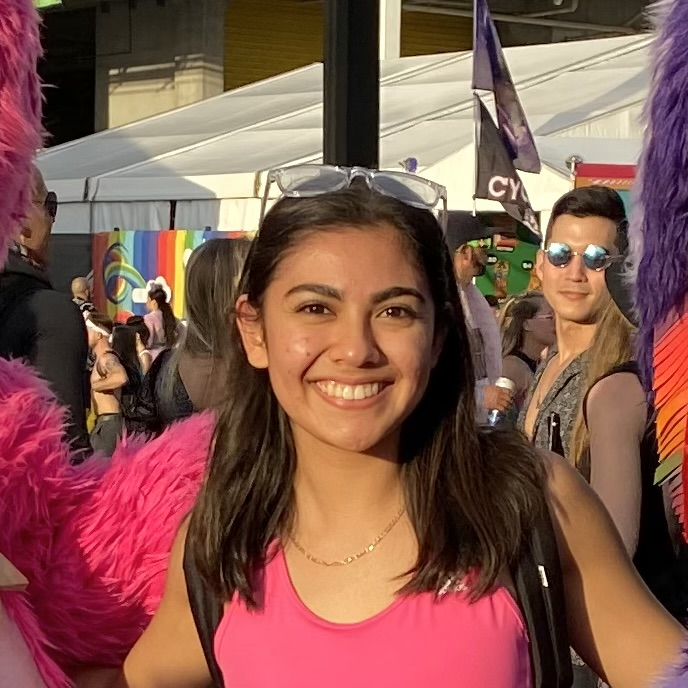
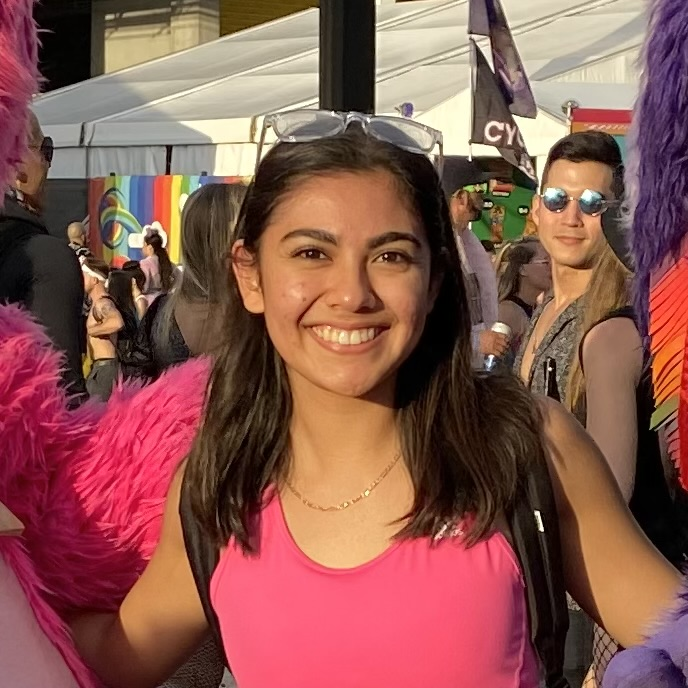
Updated Ashley pic + npm run format

diff --git a/src/components/LandingPage/About/About.tsx b/src/components/LandingPage/About/About.tsx
@@ -26,7 +26,8 @@ const About: React.FC = () => {
       <div id="about" className="md:ml-[6rem]">
         <p className="mt-10 text-xl font-medium md:text-xxl">About</p>
         <p className="mt-4">
-          FullyHacks is California State University, Fullerton's 24-hour, beginner-friendly hackathon which will be held
+          FullyHacks is California State University, Fullerton's 24-hour,
+          beginner-friendly hackathon which will be held
           <span className="font-semibold"> 100% in-person</span> from
           <span className="font-semibold"> April 8th to 9th.</span>
         </p>

diff --git a/README.md b/README.md
@@ -3,10 +3,12 @@
 ## Welcome to FullyHacks 2023 - CSUF's first 24-hour in-person hackathon
 
 ## Tech Stacks:
+
 1. Next.js (Full-stack framework)
 2. TailwindCSS, DaisyUI (Styling)
 3. Prisma (ORM)
 4. MongoDB (Database)
 
 ## CONTRIBUTING
+
 ### [READ HERE](https://github.com/acmcsufoss/fullyhacks/blob/main/CONTRIBUTING.MD)
